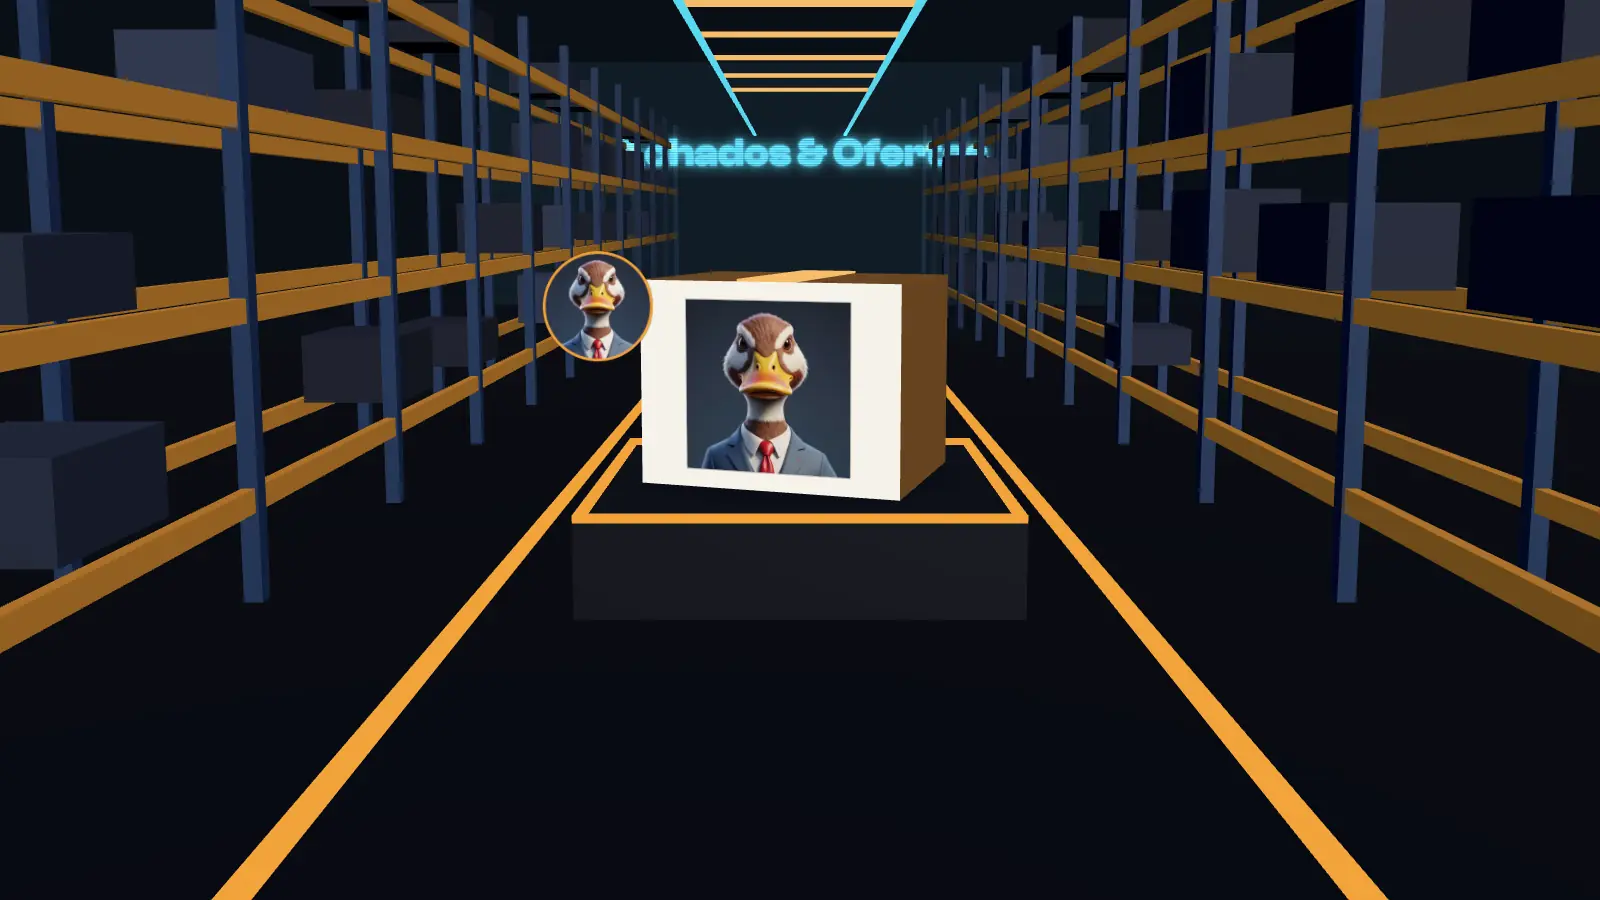
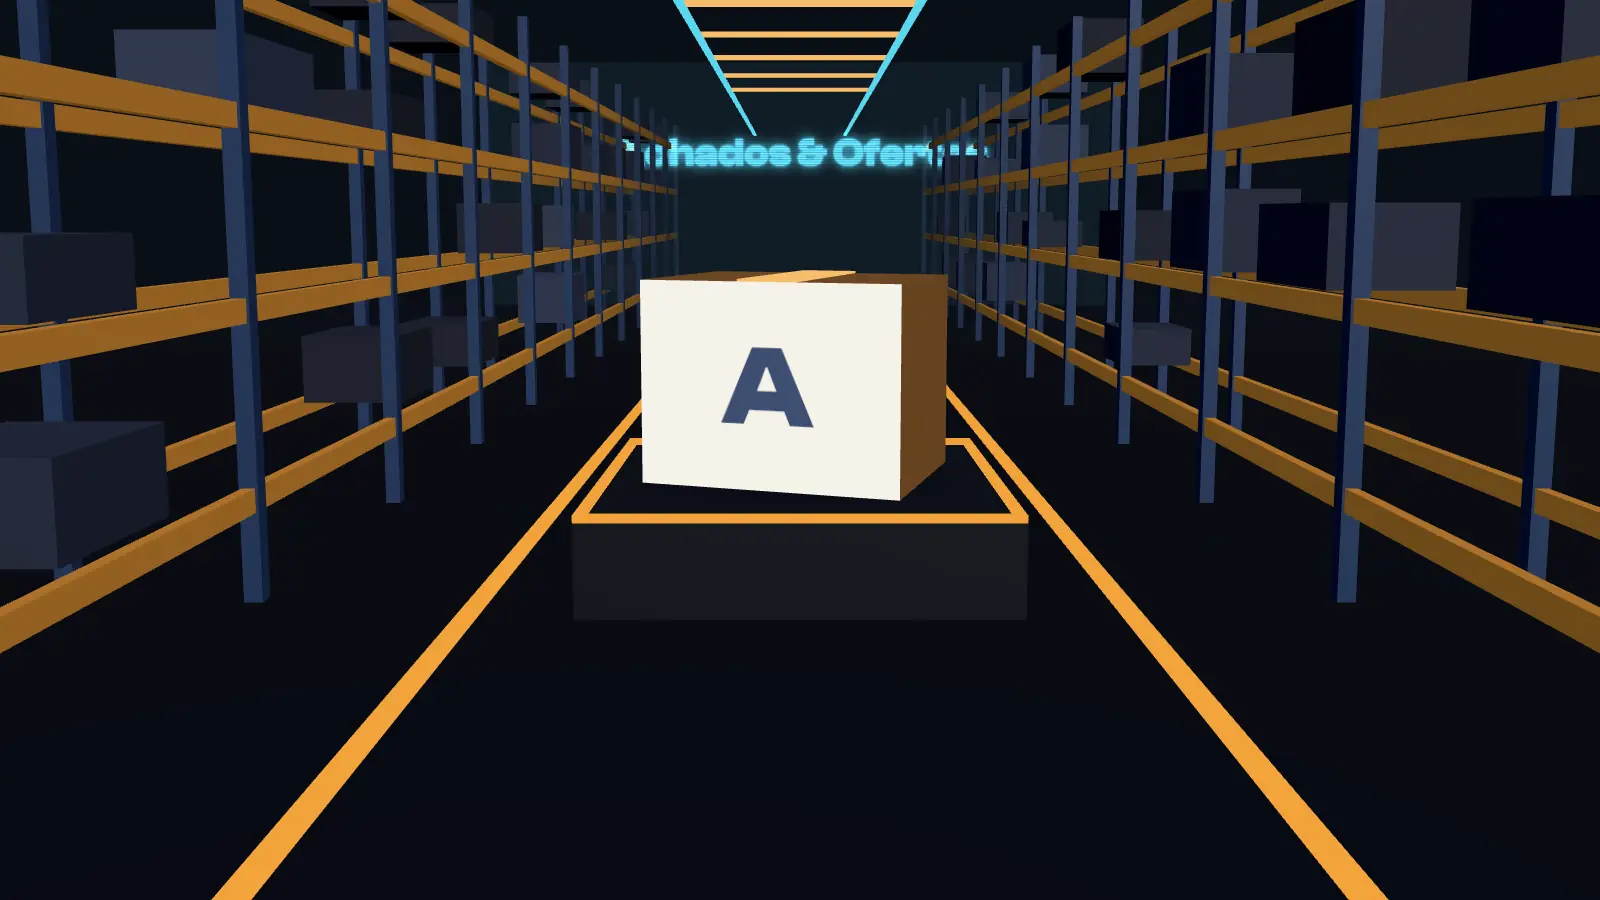
Tira o Patto da cena 3D e faz o preco velho sumir no navegador, sem deploy diario
- cena sem o billboard do Patto (ja esta na placa); poster com caixa neutra
- preco conferido ha mais de 2 dias vira 'Ver preco atual' via data-velho (build + script minimo)
- script/workflow de precos: 1x ao dia e so commita se um preco mudou

Changed region(s): [[0.3438, 0.28, 0.5312, 0.5289]]

diff --git a/src/cena/galpao.ts b/src/cena/galpao.ts
@@ -28,8 +28,6 @@ import {
   PerspectiveCamera,
   PlaneGeometry,
   Scene,
-  Sprite,
-  SpriteMaterial,
   SRGBColorSpace,
   WebGLRenderer,
 } from 'three';
@@ -168,29 +166,6 @@ function texturaSombra() {
   g.fillStyle = grad;
   g.fillRect(0, 0, n, n);
   return new CanvasTexture(c);
-}
-
-/** O Patto como anfitrião: recorte circular com anel âmbar, sempre de frente. */
-async function texturaPatto(anel: Color) {
-  const img = await carregarImagem('/marca/patto.webp');
-  const n = 512;
-  const c = document.createElement('canvas');
-  c.width = n;
-  c.height = n;
-  const g = c.getContext('2d')!;
-  const m = 14;
-  g.beginPath();
-  g.arc(n / 2, n / 2, n / 2 - m, 0, Math.PI * 2);
-  g.save();
-  g.clip();
-  g.drawImage(img, m, m, n - m * 2, n - m * 2);
-  g.restore();
-  g.lineWidth = 12;
-  g.strokeStyle = css(anel);
-  g.stroke();
-  const t = new CanvasTexture(c);
-  t.colorSpace = SRGBColorSpace;
-  return t;
 }
 
 export async function montar(canvas: HTMLCanvasElement, opcoes: Opcoes): Promise<Cena> {
@@ -411,18 +386,6 @@ export async function montar(canvas: HTMLCanvasElement, opcoes: Opcoes): Promise
     }
   }
 
-  // ---------- o Patto, anfitrião: de pé sobre a primeira caixa ----------
-  let patto: Sprite | null = null;
-  try {
-    const texPatto = await texturaPatto(bico);
-    patto = new Sprite(new SpriteMaterial({ map: texPatto, fog: false, toneMapped: false }));
-    patto.scale.set(0.62, 0.62, 1);
-    patto.position.set(-1.1, 1.55, 0.5);
-    scene.add(patto);
-  } catch {
-    /* sem a arte, a cena segue sem anfitrião */
-  }
-
   // ---------- câmera: caminha pelo corredor conforme a página rola ----------
   const foco = opcoes.foco ?? 0.2;
   const pointer = { x: 0, y: 0 };
@@ -580,7 +543,6 @@ export async function montar(canvas: HTMLCanvasElement, opcoes: Opcoes): Promise
       materiaisFoto.forEach((m) => m.dispose());
       texLetreiro.dispose();
       texSombra.dispose();
-      patto?.material.map?.dispose();
       renderer.dispose();
     },
   };

diff --git a/AGENTS.md b/AGENTS.md
@@ -80,8 +80,8 @@ A página é uma cena WebGL fixa atrás do conteúdo (`.palco`, `position: fixed
   holográfico "Achados & Ofertas", e **um pedestal por oferta** com uma caixa de
   papelão cuja face da frente é a foto do produto (foto de anúncio tem fundo
   branco: vai sobre `--foto-fundo` com multiply, como no card). Mais um pedestal
-  vazio no fim do corredor (sinal de que cresce). O Patto é um billboard 2D ao
-  lado da primeira caixa. Cores lidas dos tokens CSS: nenhum hex no TS. Cor nova
+  vazio no fim do corredor (sinal de que cresce). **O Patto NÃO aparece na cena**
+  (o dono achou demais: ele já está na placa). Cores lidas dos tokens CSS: nenhum hex no TS. Cor nova
   da cena entra como token em `tokens.css` (`--p-holo`).
 - **Rolagem**: cada `<section data-estacao>` é uma estação. A posição de cada uma
   na página move a câmera por um pedestal (data-driven: lê o DOM, nada de
@@ -90,7 +90,7 @@ A página é uma cena WebGL fixa atrás do conteúdo (`.palco`, `position: fixed
 - **Câmera por tela**: retrato abre o campo de visão (58°) e usa `setViewOffset`
   pra subir a caixa na tela (`foco`), porque o card ocupa a metade de baixo.
 - **Poster**: `public/cena/poster-retrato.webp` (780×1688) e `poster-paisagem.webp`
-  (1600×900). A caixa do poster mostra o Patto, não um produto, pra nunca ficar
+  (1600×900). A caixa do poster mostra a letra A, não um produto, pra nunca ficar
   velho. **Regerar quando mudar a cena**: `npm run build`, servir `dist/`, abrir
   `/cena-poster?w=780&h=1688&foco=0.2&leve=1` (retrato) e
   `/cena-poster?w=1600&h=900&foco=0.1` (paisagem) no Edge/Chrome headless com
@@ -173,12 +173,13 @@ do Buds 6 Play.
   (digitados à mão, não dá pra conferir). Não lê Pix nem parcelas.
 - **Falhou ou o ML bloqueou? Não mexe em nada.** `conferidoEm` envelhece e, passados
   `VALIDADE_PRECO_DIAS` (2) dias, o card esconde o preço e o botão vira "Ver preço
-  atual" (`src/lib/ofertas.ts`, campo derivado `precoValido`). Preço velho é pior
-  que preço nenhum.
-- **Roda sozinho**: `.github/workflows/atualizar-precos.yml`, 09h e 21h de Brasília
-  (e à mão na aba Actions). Commita `ofertas.json` e `precos-rodada.json` na main;
-  o Netlify publica. O `precos-rodada.json` muda todo dia de propósito: garante um
-  build diário pra regra do "preço velho some" valer.
+  atual". O HTML leva as duas versões e `data-velho` escolhe (CSS): o build marca
+  as já velhas (`precoValido`) e um script mínimo no `index.astro` marca no
+  navegador as que envelheceram depois do build, então não precisa de deploy diário.
+  Preço velho é pior que preço nenhum.
+- **Roda sozinho**: `.github/workflows/atualizar-precos.yml`, 1x por dia às 09h de
+  Brasília (e à mão na aba Actions). **Só commita quando um preço mudou**: cada
+  commit é um deploy no Netlify e deploy custa crédito/minuto de build.
 - À mão: `node scripts/atualizar-precos.mjs` (`--dry` só mostra, não grava).
 - Se o ML passar a bloquear o IP do GitHub, o job falha (todas as ofertas sem
   leitura), os preços somem em 2 dias e o site segue funcionando "sem preço".

diff --git a/CLAUDE.md b/CLAUDE.md
@@ -80,8 +80,8 @@ A página é uma cena WebGL fixa atrás do conteúdo (`.palco`, `position: fixed
   holográfico "Achados & Ofertas", e **um pedestal por oferta** com uma caixa de
   papelão cuja face da frente é a foto do produto (foto de anúncio tem fundo
   branco: vai sobre `--foto-fundo` com multiply, como no card). Mais um pedestal
-  vazio no fim do corredor (sinal de que cresce). O Patto é um billboard 2D ao
-  lado da primeira caixa. Cores lidas dos tokens CSS: nenhum hex no TS. Cor nova
+  vazio no fim do corredor (sinal de que cresce). **O Patto NÃO aparece na cena**
+  (o dono achou demais: ele já está na placa). Cores lidas dos tokens CSS: nenhum hex no TS. Cor nova
   da cena entra como token em `tokens.css` (`--p-holo`).
 - **Rolagem**: cada `<section data-estacao>` é uma estação. A posição de cada uma
   na página move a câmera por um pedestal (data-driven: lê o DOM, nada de
@@ -90,7 +90,7 @@ A página é uma cena WebGL fixa atrás do conteúdo (`.palco`, `position: fixed
 - **Câmera por tela**: retrato abre o campo de visão (58°) e usa `setViewOffset`
   pra subir a caixa na tela (`foco`), porque o card ocupa a metade de baixo.
 - **Poster**: `public/cena/poster-retrato.webp` (780×1688) e `poster-paisagem.webp`
-  (1600×900). A caixa do poster mostra o Patto, não um produto, pra nunca ficar
+  (1600×900). A caixa do poster mostra a letra A, não um produto, pra nunca ficar
   velho. **Regerar quando mudar a cena**: `npm run build`, servir `dist/`, abrir
   `/cena-poster?w=780&h=1688&foco=0.2&leve=1` (retrato) e
   `/cena-poster?w=1600&h=900&foco=0.1` (paisagem) no Edge/Chrome headless com
@@ -173,12 +173,13 @@ do Buds 6 Play.
   (digitados à mão, não dá pra conferir). Não lê Pix nem parcelas.
 - **Falhou ou o ML bloqueou? Não mexe em nada.** `conferidoEm` envelhece e, passados
   `VALIDADE_PRECO_DIAS` (2) dias, o card esconde o preço e o botão vira "Ver preço
-  atual" (`src/lib/ofertas.ts`, campo derivado `precoValido`). Preço velho é pior
-  que preço nenhum.
-- **Roda sozinho**: `.github/workflows/atualizar-precos.yml`, 09h e 21h de Brasília
-  (e à mão na aba Actions). Commita `ofertas.json` e `precos-rodada.json` na main;
-  o Netlify publica. O `precos-rodada.json` muda todo dia de propósito: garante um
-  build diário pra regra do "preço velho some" valer.
+  atual". O HTML leva as duas versões e `data-velho` escolhe (CSS): o build marca
+  as já velhas (`precoValido`) e um script mínimo no `index.astro` marca no
+  navegador as que envelheceram depois do build, então não precisa de deploy diário.
+  Preço velho é pior que preço nenhum.
+- **Roda sozinho**: `.github/workflows/atualizar-precos.yml`, 1x por dia às 09h de
+  Brasília (e à mão na aba Actions). **Só commita quando um preço mudou**: cada
+  commit é um deploy no Netlify e deploy custa crédito/minuto de build.
 - À mão: `node scripts/atualizar-precos.mjs` (`--dry` só mostra, não grava).
 - Se o ML passar a bloquear o IP do GitHub, o job falha (todas as ofertas sem
   leitura), os preços somem em 2 dias e o site segue funcionando "sem preço".

diff --git a/README.md b/README.md
@@ -8,7 +8,7 @@ Site: https://achadoseofertaspatto.netlify.app
 
 A página é um galpão 3D (WebGL, three puro, ~130 KB gzip, carregado depois da
 primeira pintura). Sem WebGL ou com movimento reduzido, um poster ocupa o lugar.
-O preço é lido do Mercado Livre sozinho, 2x por dia.
+O preço é lido do Mercado Livre sozinho, 1x por dia.
 
 ---
 
@@ -71,9 +71,9 @@ por `/go/todas`, então o link não aparece no HTML. Pra trocar o destino, edite
 ## Preço automático
 
 `node scripts/atualizar-precos.mjs` lê o preço de cada oferta na vitrine do ML e
-grava em `ofertas.json`. O GitHub Actions faz isso às 09h e 21h e o Netlify
-publica. Se a leitura falhar por mais de 2 dias, o card esconde o preço e o botão
-vira "Ver preço atual". Detalhes no [`CLAUDE.md`](./CLAUDE.md).
+grava em `ofertas.json`. O GitHub Actions faz isso todo dia às 09h (e só faz
+commit se algum preço mudou) e o Netlify publica. Se a leitura falhar por mais de
+2 dias, o card esconde o preço e o botão vira "Ver preço atual". Detalhes no [`CLAUDE.md`](./CLAUDE.md).
 
 ---
 
